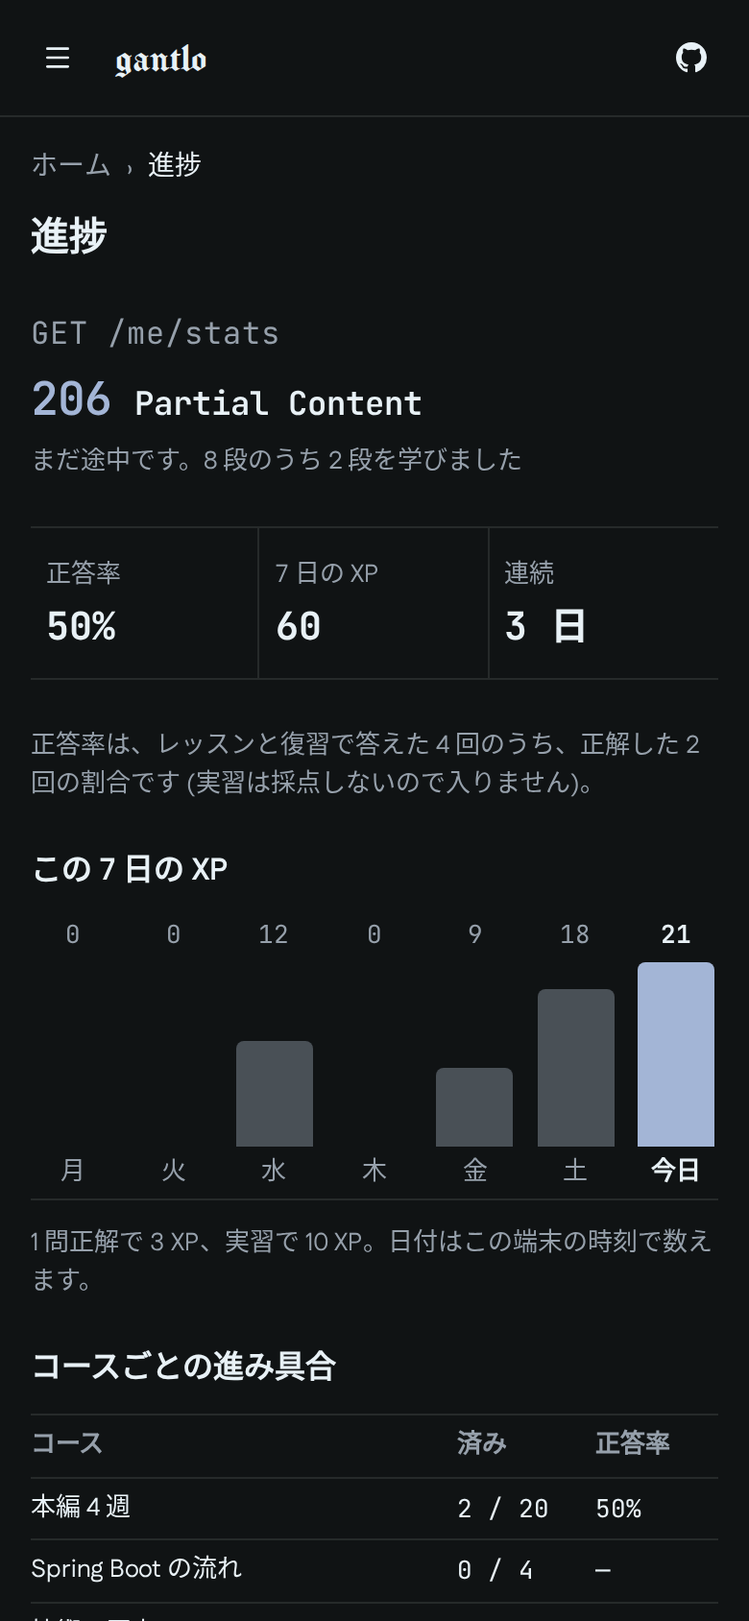
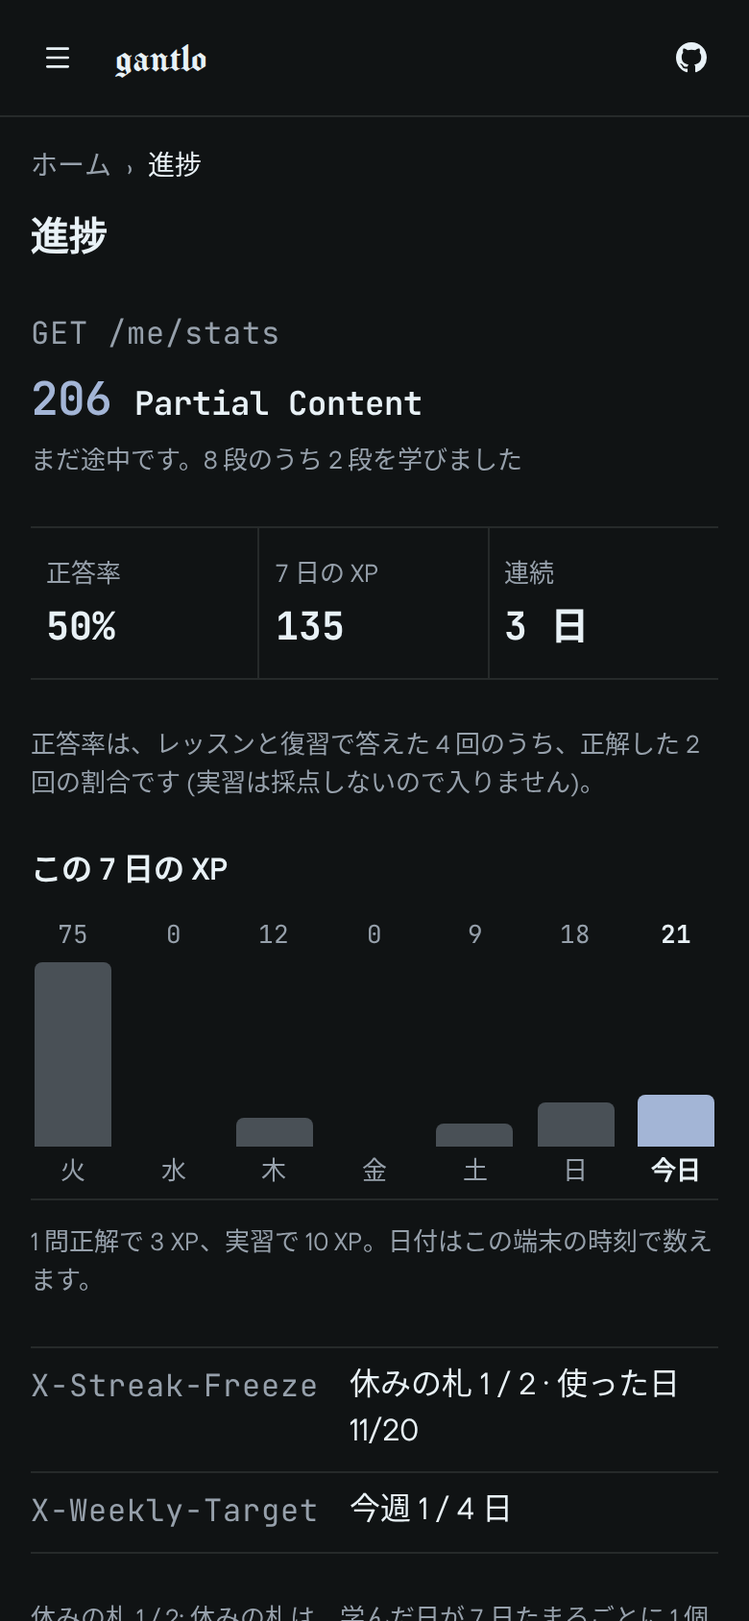
README に学び続ける仕組みと模擬試験の見直しを書き、画像を撮り直す
見せ方の表 (ホーム・模擬試験・設定・進捗)、作りの図、ファイルの表を直す。
進捗の画面は札と週の行をカレンダーの前へ移し (正答率の説明を数のすぐ下に戻す)、
README の画像の見本にカレンダーの数と札・週の目標を入れて、ホーム・進捗・学び続ける仕組みの 3 枚を撮る。
ほかの画面の画像は変えていないので入れない。

Refs #55

diff --git a/src/screens/ProgressScreen.tsx b/src/screens/ProgressScreen.tsx
@@ -88,24 +88,6 @@ export default function ProgressScreen({ progress, now = new Date(), lessons = L
           <dd>{currentStreak(progress, now)} 日</dd>
         </div>
       </dl>
-      <dl className="headers__list prog__habits" data-testid="habits">
-        <div className="headers__row" data-header="X-Streak-Freeze">
-          <dt>
-            <code>X-Streak-Freeze</code>
-          </dt>
-          <dd>{freezeText(progress, now)}</dd>
-        </div>
-        <div className="headers__row" data-header="X-Weekly-Target">
-          <dt>
-            <code>X-Weekly-Target</code>
-          </dt>
-          <dd>{weeklyTargetText(progress, now)}</dd>
-        </div>
-      </dl>
-      <Text type="supporting">
-        {freezeCountText(progress)}: 休みの札は、学んだ日が 7 日たまるごとに 1 個 (2 個まで) 増えます。休んだ日があると、次に学んだときにその日数分を使い、連続日数を保ちます (足りなければ切れます)。週の目標は{' '}
-        <Link href={pageHref('settings')}>設定</Link> で決めます。
-      </Text>
       <Text type="supporting">
         {acc.total > 0
           ? `正答率は、レッスンと復習で答えた ${acc.total} 回のうち、正解した ${acc.right} 回の割合です (実習は採点しないので入りません)。`
@@ -132,6 +114,25 @@ export default function ProgressScreen({ progress, now = new Date(), lessons = L
         </ol>
         <Text type="supporting">1 問正解で 3 XP、実習で 10 XP。日付はこの端末の時刻で数えます。</Text>
       </section>
+
+      <dl className="headers__list prog__habits" data-testid="habits">
+        <div className="headers__row" data-header="X-Streak-Freeze">
+          <dt>
+            <code>X-Streak-Freeze</code>
+          </dt>
+          <dd>{freezeText(progress, now)}</dd>
+        </div>
+        <div className="headers__row" data-header="X-Weekly-Target">
+          <dt>
+            <code>X-Weekly-Target</code>
+          </dt>
+          <dd>{weeklyTargetText(progress, now)}</dd>
+        </div>
+      </dl>
+      <Text type="supporting">
+        {freezeCountText(progress)}: 休みの札は、学んだ日が 7 日たまるごとに 1 個 (2 個まで) 増えます。休んだ日があると、次に学んだときにその日数分を使い、連続日数を保ちます (足りなければ切れます)。週の目標は{' '}
+        <Link href={pageHref('settings')}>設定</Link> で決めます。
+      </Text>
 
       <section className="prog" aria-labelledby="prog-cal-title">
         <h2 id="prog-cal-title" className="prog__title">

diff --git a/README.md b/README.md
@@ -45,14 +45,16 @@
 
 <table>
   <tr>
-    <td width="33%"><img alt="スマホのメニュー: 左から開き、下端に「このサイトについて」と「GitHub のリポジトリ」" src="docs/images/menu-phone.png"></td>
-    <td width="33%"><img alt="このサイトについて: GET /about の 200、ソースコードと Issue のボタン" src="docs/images/about-phone.png"></td>
-    <td width="33%"><img alt="コース: GET /course/main の 206、次のレッスンへのボタンと、そのコースの Network の表" src="docs/images/course-phone.png"></td>
+    <td width="25%"><img alt="スマホのメニュー: 左から開き、下端に「このサイトについて」と「GitHub のリポジトリ」" src="docs/images/menu-phone.png"></td>
+    <td width="25%"><img alt="このサイトについて: GET /about の 200、ソースコードと Issue のボタン" src="docs/images/about-phone.png"></td>
+    <td width="25%"><img alt="コース: GET /course/main の 206、次のレッスンへのボタンと、そのコースの Network の表" src="docs/images/course-phone.png"></td>
+    <td width="25%"><img alt="進捗の続き: 休みの札と週の目標の行、過去 26 週の学んだ日のマス、この先 14 日の復習" src="docs/images/habits-phone.png"></td>
   </tr>
   <tr>
     <td>メニュー。左から開き、「このサイトについて」と「GitHub のリポジトリ」は下端に留める</td>
     <td>このサイトについて。ソースコード・誤りの知らせ方・記録の置き場所・ライセンス</td>
     <td>コース。そのコースのレッスンを順に並べ、済みの印と次のレッスンへのボタンを出す</td>
+    <td>学び続ける仕組み。休みの札・週の目標・26 週の学んだ日・14 日の復習</td>
   </tr>
 </table>
 
@@ -64,7 +66,7 @@
 
 | 場面 | 見せ方 |
 |---|---|
-| ホーム | `GET /me` への応答。進み具合はステータス (`202` まだ / `206` 途中 / `200` 全部済み) で、記録はレスポンスヘッダーの形で読む。計画の予定と比べた巻き・遅れは `X-Schedule` (例: `408 2 日遅れ`)。計画を一度も保存していないうちは `204 計画なし`。次のレッスンへのボタンは何をするかを日本語で書き (まだ 1 つも済ませていなければ「最初のレッスンを始める」、ほかは「次のレッスンを始める」)、その後ろに HTTP の形 `GET /lesson/<id>` を添える (コース・計画のボタンも同じ。`src/components/LessonStartLink.tsx`) |
+| ホーム | `GET /me` への応答。進み具合はステータス (`202` まだ / `206` 途中 / `200` 全部済み) で、記録はレスポンスヘッダーの形で読む。休みの札は `X-Streak-Freeze` (`休みの札 n / 2`・次に学んだときに使う数・使った日)、週の目標は `X-Weekly-Target` (`今週 n / 目標 日`。週は月曜から。目標を決めていなければ決める場所を添える)。計画の予定と比べた巻き・遅れは `X-Schedule` (例: `408 2 日遅れ`)。計画を一度も保存していないうちは `204 計画なし`。次のレッスンへのボタンは何をするかを日本語で書き (まだ 1 つも済ませていなければ「最初のレッスンを始める」、ほかは「次のレッスンを始める」)、その後ろに HTTP の形 `GET /lesson/<id>` を添える (コース・計画のボタンも同じ。`src/components/LessonStartLink.tsx`) |
 | リクエストの旅 | 開発者ツールのウォーターフォール。URL を打ってから画面が出るまでの 8 段を、階段の帯で並べる。段に紐づくレッスンを 1 つでも終えた段は学習済みで、済んだ割合だけ帯を塗る (全部済めば `200`、途中は `206`) |
 | レッスン | 答えを送るボタンは `POST 答えを送る`。結果はレスポンスとして出す: 正解 `200 OK` (`X-XP`・`X-Source`・解説)、不正解 `400 Bad Request` (`X-Expected`・`Retry-After: 86400`・`X-Source`・解説)、メディアタイプの空欄の誤り `415 Unsupported Media Type`、並べ替えの順の誤り `409 Conflict` (「N 行が違う位置です」)。答えたあとの解説の下 (AI に聞くリンクの次) に「誤りを報告 (GitHub)」を置き、題と本文に問題の id・レッスン・レッスンのページの URL を入れた GitHub の新しい Issue を新しいタブで開く (自分の答えや記録は入れない。模擬試験の途中は解説を出さないので置かない) |
 | 並べ替え | 上下のボタンで行を動かす (ドラッグに頼らない)。確かめると、並べた順の行ごとに、その項目の正しい位置へ帯を描く。正しい順なら帯が階段になり、違う位置の行は誤りの色になる |
@@ -73,9 +75,9 @@
 | コース (`/gantlo/course/<id>/`) | `GET /course/<id>` への応答。ステータスはホームと同じ決まりで、数えるのはそのコースのレッスン (`202` まだ / `206` 途中 / `200` 全部済み。レッスンがまだ無いコースは本文の無い `204 No Content`)。コースの紹介・次のレッスンへのボタン (このコースで 1 つも済ませていなければ「最初のレッスンを始める」、ほかは「次のレッスンを始める」と `GET /lesson/<id>`)・そのコースのレッスンだけの Network の表 (済んだ行は `200 完了`、最初の未完了の行が「次」)。見出し・紹介・一覧の順は書き出す HTML と同じ |
 | 計画 (`/gantlo/plan/`) | 学ぶコースを選び、上下のボタンで順を並べ、開始日とコースごとの目安の日数 (既定は 1 レッスン 1 日) を決めると、WBS のように開始日から学ぶ順に予定の帯を引く。横の軸は日付で、帯の上に週の頭 (月曜) と月の境 (1 日) の目盛りを出し (狭い幅では字が重ならないよう間引く)、今日に縦の線を引く。表示する期間は `全体`・`2 週`・`1 か月`・`指定` (始まりと終わりの日。2 年 = 731 日まで) から選べ、期間の外にはみ出す帯は端で切る。選んだ期間は設定 (`profile.ganttView`) にすぐ残る。済んだ量を今日の予定と比べ、`GET /plan/schedule` の応答で巻き (`200 OK`「N 日巻き」、情報の色の青)・予定どおり (`200 OK`、成功の色の緑)・遅れ (`408 Request Timeout`「N 日遅れ」、誤りの色) を出し、済みの塗りも同じ色にする。色だけに頼らず、凡例とステータスに字でも書く。目安の日数に範囲外の値を打つと「1〜365 の整数」と知らせ、既定と同じ値は直した値として残さない。予定は目安で、期限・取り戻し方・通知は持たない。`PUT この順で学ぶ` で保存すると `200 OK`。帯に済んだぶんを塗り、「今ここ」を縦の印で示す。計画が無いときは全コースを既定の順 (本編 → 追加のコース) で見せる |
 | 復習 (`/gantlo/review/`) | `GET /me/reviews?due=today` への応答。今日の復習があれば `200 OK` と問題の一覧、無ければ `204 No Content` と次の予定。解き終えると `200 OK` (レッスンの記録は作らないので `201` にしない) |
-| 模擬試験 (`/gantlo/exam/`) | `GET /exam` への応答 (`200 OK`)。本編 4 週の採点する問題 (実習を除く) から各週 10 問ずつ 40 問を開くたびに選び直し、60 分で解く。解いている間は正誤 (応答の枠) と AI に聞くリンクを出さず、`POST 答えを送って次へ` で次の問題へ進む。上の帯に残り時間 (残り 5 分を切ると誤りの色)。終えると `POST /me/exams` の `201 Created`、60 分を過ぎると答えていない問題を不正解として `408 Request Timeout` (`X-Unanswered` に数)。合否は `X-Result` (75% ちょうどは合格) と見出しに出し (75% はこのサイトの目安で、一次情報となる公式の基準は無いので、画面と書き出す HTML では「合格の目安」と書き、公式の基準ではないと断る。文の正本は `lib/exam.ts` の `PASS_MARK_NOTE`)、週ごとの正答率・いちばん低い週と、その週で間違えた問題のあるレッスンへのリンク・問題ごとの正誤 (誤りには正しい答えと解説) を出す。間違えた・答えなかった問題は翌日の復習に入り、正解 1 問 3 XP。回の記録 (`exams`、新しい順に 20 回まで) を、これまでの回として出す。解いている途中の回 (出題・答え・期限) はブラウザに残し、読み直したり閉じて開き直したりすると `GET /me/exams/current` の `206 Partial Content` で「続きから解く / やめて最初から」を出す (期限は閉じている間も進み、過ぎていれば開いたとき・案内を出している間に期限が来たとき・案内から新しく始めるときに時間切れの `408` として採点する)。採点した回は回の id を記録に残し、2 つのタブで同じ回を解いても 1 回だけ記録する。やめるボタンか「やめて最初から」でやめた回は記録しない |
-| 設定 (`/gantlo/settings/`) | 目標を変えると `PATCH /me/profile` の `200`、書き出しは `GET`、読み込みは `PUT /me` の `200`。1 MB を超えるファイルは `413 Content Too Large`、壊れたファイルは `422 Unprocessable Content` で読まず、理由を出す。記録を消すと `DELETE /me` の `204` |
-| 進捗 (`/gantlo/progress/`) | `GET /me/stats` への応答。ステータスはホームと同じ旅の段の進み具合 (`202` / `206` / `200`)。正答率 (レッスンと復習で答えた回数のうち正解の割合)・この 7 日の XP (日ごとの棒)・連続日数、コースごとの済んだレッスンの数と正答率、旅の 8 段の学習状況 (ウォーターフォール) を出す |
+| 模擬試験 (`/gantlo/exam/`) | `GET /exam` への応答 (`200 OK`)。本編 4 週の採点する問題 (実習を除く) から各週 10 問ずつ 40 問を開くたびに選び直し、60 分で解く。解いている間は正誤 (応答の枠) と AI に聞くリンクを出さず、`POST 答えを送って次へ` で次の問題へ進む。問題の下に「前の問題」「次の問題 (答えずに)」「あとで見直す」(押した状態を `aria-pressed` で伝える印)「一覧と採点へ」と、問題番号の一覧 (番号ごとに未回答・回答済み・印を字でも書く) を置き、好きな問題へ移れる。答えた問題へ戻ると「送り直すと前の答えを置き換えます」と出す (残しているのは正誤とコードだけなので、入れた答えは出せない)。最後の問題のあとは、すぐに採点せず `POST /me/exams (Expect: 100-continue)` の `100 Continue` で採点の前の確かめ (`X-Unanswered`・`X-Marked`) を出し、`POST 採点する` で採点する。上の帯に残り時間 (残り 5 分を切ると誤りの色)。終えると `POST /me/exams` の `201 Created`、60 分を過ぎると答えていない問題を不正解として `408 Request Timeout` (`X-Unanswered` に数)。合否は `X-Result` (75% ちょうどは合格) と見出しに出し (75% はこのサイトの目安で、一次情報となる公式の基準は無いので、画面と書き出す HTML では「合格の目安」と書き、公式の基準ではないと断る。文の正本は `lib/exam.ts` の `PASS_MARK_NOTE`)、週ごとの正答率・いちばん低い週と、その週で間違えた問題のあるレッスンへのリンク・問題ごとの正誤 (誤りには正しい答えと解説) を出す。間違えた・答えなかった問題は翌日の復習に入り、正解 1 問 3 XP。回の記録 (`exams`、新しい順に 20 回まで) を、これまでの回として出す。解いている途中の回 (出題・位置ごとの答え・期限・今の位置・見直しの印) はブラウザに残し、読み直したり閉じて開き直したりすると `GET /me/exams/current` の `206 Partial Content` で「続きから解く / やめて最初から」を出す (期限は閉じている間も進み、過ぎていれば開いたとき・案内を出している間に期限が来たとき・案内から新しく始めるときに時間切れの `408` として採点する)。採点した回は回の id を記録に残し、2 つのタブで同じ回を解いても 1 回だけ記録する。やめるボタンか「やめて最初から」でやめた回は記録しない |
+| 設定 (`/gantlo/settings/`) | 目標を変えると `PATCH /me/profile` の `200`。週の目標 (週に学ぶ日 1〜7、既定は無し) も同じ `PATCH /me/profile` で、外すボタンで外せる。学ぶ予定は時刻と曜日を選んで `GET /me/calendar.ics` の `200` で .ics を保存する (曜日が空なら `422`)。書き出しは `GET`、読み込みは `PUT /me` の `200`。1 MB を超えるファイルは `413 Content Too Large`、壊れたファイルは `422 Unprocessable Content` で読まず、理由を出す。記録を消すと `DELETE /me` の `204` |
+| 進捗 (`/gantlo/progress/`) | `GET /me/stats` への応答。ステータスはホームと同じ旅の段の進み具合 (`202` / `206` / `200`)。正答率 (レッスンと復習で答えた回数のうち正解の割合)・この 7 日の XP (日ごとの棒)・連続日数、ホームと同じ `X-Streak-Freeze` と `X-Weekly-Target` の行、過去 26 週の学んだ日のマス (列が週、日ごとに答えた問題の数で 5 段に塗る。マスごとに日付と数を見えない文字と title で持つ)、この先 14 日の復習の件数 (今日には過ぎた予定も入れる)、問題ごとの到達 (まだ・間違えた・1 回正解・2 回続けて の数と割合をコースごと)、学習のまとめのカード (`GET /me/summary.png` で 1080×1350 の PNG を保存。画像の共有に対応した端末では共有も)、コースごとの済んだレッスンの数と正答率、旅の 8 段の学習状況 (ウォーターフォール) を出す |
 | 用語集 (`/gantlo/glossary/`) | `GET /glossary?q=<探す語>` への応答。当たれば `200 OK` と語の数、無ければ `204 No Content`。探す語は URL の形 (パーセントエンコーディング) で見せる。11 の規格を学ぶ順に、問題に出る用語を読みの順に並べ、どの語にも短い説明・一次情報の出典 (RFC は節まで)・出てくるレッスンへのリンクを付ける。探しているときは当たりのよい順の 1 つの一覧 |
 | このサイトについて (`/gantlo/about/`) | `GET /about` への応答 (`200 OK`)。サイトの説明・ソースコード (GitHub)・Issue を書く・記録の置き場所・AI に聞く・問題の出典・ライセンス。文の正本は `src/lib/about.ts` |
 | まだ無い画面 | `501 Not Implemented` |
@@ -101,6 +103,14 @@ flowchart LR
   app --> stats["screens/ProgressScreen.tsx<br/>進捗 (GET /me/stats)"]
   app --> gloss["screens/Glossary.tsx<br/>用語集 (GET /glossary)"]
   statslib["lib/stats.ts<br/>正答率・7 日の XP・コースごと"] --> stats
+  habits["lib/habits.ts<br/>休みの札・週の目標の見せ方"] --> home
+  habits --> stats
+  callib["lib/calendar.ts<br/>26 週のマス・14 日の復習"] --> stats
+  mastery["lib/mastery.ts<br/>問題ごとの到達"] --> stats
+  mastery --> cardlib["lib/summaryCard.ts<br/>まとめのカードの数と描き方"]
+  cardlib --> card["components/SummaryCard.tsx<br/>canvas で PNG・保存・共有 (後から読む)"]
+  card --> stats
+  ics["lib/ics.ts<br/>.ics (RFC 5545)・VTIMEZONE"] --> settings
   gdata["content/glossary.json<br/>語・説明・出典・レッスン"] --> glib["lib/glossary.ts<br/>NFKC でそろえて探す・検査"]
   glib --> gloss
   review -->|復習として解く| lesson
@@ -166,6 +176,7 @@ flowchart LR
   index --> journey
   index --> planlib
   progress --> statslib["lib/stats.ts<br/>正答率・7 日の XP"]
+  progress -->|休みの札・日ごとの答えた数・続けた正解の数| habitslib["lib/habits.ts・calendar.ts・mastery.ts"]
   index --> statslib
 ```
 
@@ -211,7 +222,7 @@ flowchart LR
 | `src/App.tsx` | 経路から画面を選ぶ。画面はホームも含めて `React.lazy` で開いたときに読む (上の帯と「読み込んでいます。」を先に描き、画面の描画は Suspense の読み直しとして React が手を離しながら描くので、1 つの長い仕事にならない。書き出した HTML がその画面の JS を modulepreload する) (読み込み中は「読み込んでいます。」だけを出し、見出しは画面と一緒に出す)。画面の JS を読めないとき (新しい版を出したあとの開いたままのタブなど) は、`src/lib/chunkReload.ts` が `vite:preloadError` で 1 回だけ読み直し (10 秒の中の 2 度目は読み直さない。sessionStorage に時刻を残す)、それでも読めなければ `components/ChunkErrorBoundary.tsx` が白紙にせず「読み込めませんでした」と読み直すボタンを出す (`scripts/e2e-course.mjs` の 7)。トップが最初に読む JS (script と modulepreload を gzip -9 した合計) は 300 KB 以下 (`tests/meta.test.ts` が build のあとに確かめる) |
 | `scripts/check-content.mjs` | 問題データの検査 (`npm run check:content`)。必須の欄・正解と選択肢や項目の食い違い・id の重なり・旅の段・https の出典を見る。CI でも走る |
 | `src/lib/grade.ts` | 採点。前後の空白は無視し、大文字と小文字は区別する。HTTP のヘッダー名とメディアタイプだけは区別しない |
-| `src/lib/progress.ts` | 進捗。localStorage の `gantlo.v1` に JSON で置き、サーバーには送らない。壊れた中身は初期値で読み直す。復習の予定 (`recordAnswer`): 間違えると翌日、予定日以降の正解で 3 日後・7 日後、7 日後も正解で卒業、予定日より前の正解は据え置き。日付は端末の時刻の日付 (`dayKey`) で数え、時差で 1 日ずれない。読み込み (`parseImport`) は 1 MB まで、`v` が 1 で `streak`・`xp`・`lessons`・`answers` がオブジェクトのものだけを読み、読めない理由を返す。目標と計画は、読み込んだ側に無いときだけ今の端末から引き継ぐ。計画の開始日と目安の日数も、読み直し・書き出し・読み込み・記録を消すときに写して残す (壊れた値は読むときに落として既定で補う)。模擬試験の回の記録 (`exams`: 終えた時刻・正答数・問題の数・時間切れか) は、形の合う回だけを 20 回まで読む (正答数が問題の数を超える回は落とす)。記録を消すと回の記録も消える |
+| `src/lib/progress.ts` | 進捗。学んだ日は、レッスン・復習・模擬試験を終えて連続日数を進めた日 (`xp.byDay` に日付がある日。`studiedDays`) の 1 つに決め、休みの札・週の目標・カレンダーで同じものを使う。休みの札 (`freeze`: 数・次の札までの日・使った日) は学んだ日が 7 日たまるごとに 1 個 (2 個まで。2 個のときは足さずに数え直す)。最後に学んだ日との間に学ばなかった日があれば、次に学んだとき (`addActivity`) にその日数分を使って連続を保ち、足りなければ札は使わずに 1 に戻す。札で埋められる空きのうちは `currentStreak` も切らない (`pendingFreezes`)。欄の無い古い記録は学んだ日の数から数える (`freezeState`)。日ごとに答えた問題の数 (`answered`) は `recordAnswer` が数え、模擬試験で答えなかった問題は数えない。問題ごとの続けて正解した数 (`inRow`、9 まで) も `recordAnswer` が残し、欄の無い古い記録は回数と復習の段階から推す (`inRowOf`: 間違えていなければ正解の回数・正解していなければ 0・卒業していれば 2・復習の途中は段階。段階 0 は直近が誤りとみなす)。週の目標 (`profile.weeklyGoalDays`) は 1〜7 の整数だけ残す。どの欄も optional で `v` は 1 のまま。localStorage の `gantlo.v1` に JSON で置き、サーバーには送らない。壊れた中身は初期値で読み直す。復習の予定 (`recordAnswer`): 間違えると翌日、予定日以降の正解で 3 日後・7 日後、7 日後も正解で卒業、予定日より前の正解は据え置き。日付は端末の時刻の日付 (`dayKey`) で数え、時差で 1 日ずれない。読み込み (`parseImport`) は 1 MB まで、`v` が 1 で `streak`・`xp`・`lessons`・`answers` がオブジェクトのものだけを読み、読めない理由を返す。目標と計画は、読み込んだ側に無いときだけ今の端末から引き継ぐ。計画の開始日と目安の日数も、読み直し・書き出し・読み込み・記録を消すときに写して残す (壊れた値は読むときに落として既定で補う)。模擬試験の回の記録 (`exams`: 終えた時刻・正答数・問題の数・時間切れか) は、形の合う回だけを 20 回まで読む (正答数が問題の数を超える回は落とす)。記録を消すと回の記録も消える |
 | `src/lib/useProgress.ts` | 進捗を読み、変えるたびに保存する React のフック |
 | `src/screens/LessonScreen.tsx` | レッスンを 1 問ずつ解き、最後に `201 Created` で結果を出す。答えるたびに問題ごとの正誤を、終えたら完了・最高の正答率・XP を進捗に残す。4 択の選択肢と並べ替えの項目は、開くたび・やり直すたびに混ぜる。画面の h1 は上の帯のレッスン名で (書き出す HTML の h1 と同じ)、問題文は h2 (`QuestionHeadingLevel`。模擬試験の途中の画面は問題文が h1 のまま) |
 | `src/components/FillQuestionView.tsx`・`ChoiceQuestionView.tsx`・`OrderQuestionView.tsx`・`LabQuestionView.tsx` | 種類ごとの画面 (コマンドと HTTP・JSON の穴埋め / 4 択 / 並べ替え / 実習)。並べ替えは上下のボタンで動かし、動かしたあとも手元 (focus) を動かした行のボタンに残す (端で押せなくなったら押せる方へ)。実習は採点せず、全部の手順に印を付けると終えられる |
@@ -221,12 +232,12 @@ flowchart LR
 | `src/lib/shuffle.ts` | 4 択の選択肢を、開くたび・やり直すたびに混ぜる (`fixedOrder` の問題はそのまま) |
 | `src/lib/lessonRun.ts` | 正答数 (実習を除く採点した問題で数える。並べ替えも入る)・XP (正解 1 問 3、実習 10)・結果の JSON・完了画面の一覧のコード (答えの画面に出したコードと同じ。並べ替えの誤りは 409、メディアタイプの誤りは 415) |
 | `scripts/e2e.mjs` | ブラウザでの通しの検査 (`npm run e2e`)。390 幅と 1280 幅で、問題データから選んだレッスン (並べ替え・4 択・穴埋めを持つものと、メディアタイプの空欄・実習を持つもの) を解き、応答・完了・進捗・404・横のはみ出し・答える前の AI のリンク (全種類)・本文へ飛ぶリンク・390 幅の押せる範囲 (44px)・並べ替えをキーボード (Tab と Enter) だけで正解にできること・409 で違う位置の行が誤りの色になることを見る |
-| `src/lib/exam.ts` | 模擬試験の計算。出題の元 (`examBank`) は本編のレッスン (id の `main-w<週>-` から週を読む) の実習を除く問題。`pickExam` は週ごとに 10 問を重ならずに選び、全体の並びと 4 択の選択肢・並べ替えの項目を混ぜる。乱数は `examRandom` が決め、URL に `?seed=<整数>` があれば種から決まる乱数 (`seededRandom`) で出題を固定する (e2e が使う。無ければ `Math.random`)。`gradeExam` は答えていない問題を不正解に数え、正答率・合否 (`PASS_MARK` 0.75 以上)・週ごとの正答率・いちばん低い週 (同じなら先の週、全部満点なら無し) を返す。途中の回は `toSavedExam` で出題 (問題の id と、混ぜた 4 択の選択肢・並べ替えの項目の並び)・答え・期限にし、`fromSavedExam` が出題の元と突き合わせて読み直す (回の id が無い・形が違う・問題データから消えた・同じ問題が 2 回・並びが合わない・答えが多すぎる中身は読まずに消して最初から)。もう記録した回 (記録の `exams` の `runId`) の保存は `loadExamRun` が捨てる。置き場は進捗と別のキー `gantlo.exam.v1` で、進捗の様式 (`gantlo.v1`)・書き出し・読み込みには入れない。`recordExam` は全部の問題を `recordAnswer` に通し (間違えた・答えなかった問題は翌日の復習)、正解 1 問 3 XP を足し、回の記録を先頭に足す (`MAX_EXAM_RECORDS` 20 回まで。読み込みでも同じ数で切る) |
+| `src/lib/exam.ts` | 模擬試験の計算。出題の元 (`examBank`) は本編のレッスン (id の `main-w<週>-` から週を読む) の実習を除く問題。`pickExam` は週ごとに 10 問を重ならずに選び、全体の並びと 4 択の選択肢・並べ替えの項目を混ぜる。乱数は `examRandom` が決め、URL に `?seed=<整数>` があれば種から決まる乱数 (`seededRandom`) で出題を固定する (e2e が使う。無ければ `Math.random`)。`gradeExam` は答えていない問題を不正解に数え、正答率・合否 (`PASS_MARK` 0.75 以上)・週ごとの正答率・いちばん低い週 (同じなら先の週、全部満点なら無し) を返す。途中の回は `toSavedExam` で出題 (問題の id と、混ぜた 4 択の選択肢・並べ替えの項目の並び)・答え・期限にし、`fromSavedExam` が出題の元と突き合わせて読み直す (回の id が無い・形が違う・問題データから消えた・同じ問題が 2 回・並びが合わない・答えが多すぎる中身は読まずに消して最初から)。もう記録した回 (記録の `exams` の `runId`) の保存は `loadExamRun` が捨てる。途中の回の答えは位置ごと (飛ばした位置は `null`) で、今の位置 (`index`) と見直しの印 (`marks`) も残す。`index` と `marks` の無い古い保存 (答えを前から詰めたもの) は、答えた数を今の位置として読む。答えは問題の数まで読む (全部に答えて採点の前の確かめにいる回もある)。置き場は進捗と別のキー `gantlo.exam.v1` で、進捗の様式 (`gantlo.v1`)・書き出し・読み込みには入れない。`recordExam` は全部の問題を `recordAnswer` に通し (間違えた・答えなかった問題は翌日の復習)、正解 1 問 3 XP を足し、回の記録を先頭に足す (`MAX_EXAM_RECORDS` 20 回まで。読み込みでも同じ数で切る) |
 | `src/lib/report.ts`・`src/components/ReportIssue.tsx` | 問題ごとの「誤りを報告」。問題の id から目録 (`content/catalog.ts`) でレッスンを引き (問題の本文は読まない)、このサイトについてと同じ `NEW_ISSUE_URL` に `?title=` (「問題の誤り: <id> (<レッスン名>)」) と `?body=` (問題の id・コースとレッスン・ページの URL・書いてほしいこと) を `encodeURIComponent` で付ける。中身は問題の id とデータだけから決め、自分の答え・記録・個人の情報は入れない (`tests/report.test.ts`)。ページの URL の頭 (`ORIGIN`) の正本は `src/lib/site.ts` |
-| `src/screens/Exam.tsx` | 模擬試験の画面。始める前・解いている途中・結果の 3 つ。問題は種類ごとの画面 (`isExam`) で出し、答えを送ると正誤を見せずに次へ進む。残り時間は 1 秒ごとに数え直し、0 になったら 1 回だけ採点する (最後の答えと時計が重なっても 2 回記録しない)。並べ替えの送るボタンは並べ方によらず押せるので、出してから 0.4 秒の間の答えは捨てる (2 度押しの 2 回目で次の問題を送らない)。解いている途中の回は答えるたびに `gantlo.exam.v1` に残し (`lib/examSave.ts`)、開いたときに残っていれば期限の前なら続けるかを聞き (`ResumePrompt`。期限が来たら時間切れとして採点する)、過ぎていれば時間切れとして採点する (`recordExpiredRun`)。案内から新しく始めるときも、期限を過ぎた回を先に採点する。記録は回の id (`runId`) で 1 回だけ (`recordExam` がもう記録した id を足さない)。走っている画面は、残っている回が自分の回のときだけ残し直し (別のタブが採点して消した回を戻さない)、終えたときに別のタブがその回を記録していれば記録しない。終えた・時間が切れた・やめたときは、残っているのが自分の回なら消す |
+| `src/screens/Exam.tsx` | 模擬試験の画面。始める前・解いている途中・採点の前の確かめ・結果の 4 つ。前の問題・答えずに次へ・あとで見直す (Astryx の `ToggleButton`)・問題番号の一覧 (`ExamSlots`) で移り、最後の問題のあとは確かめの画面 (`100 Continue`) に移る (確かめにいることは保存しない。読み直すと最後に見ていた問題から)。問題は種類ごとの画面 (`isExam`) で出し、答えを送ると正誤を見せずに次へ進む。残り時間は 1 秒ごとに数え直し、0 になったら 1 回だけ採点する (最後の答えと時計が重なっても 2 回記録しない)。並べ替えの送るボタンは並べ方によらず押せるので、出してから 0.4 秒の間の答えは捨てる (2 度押しの 2 回目で次の問題を送らない)。解いている途中の回は答えるたびに `gantlo.exam.v1` に残し (`lib/examSave.ts`)、開いたときに残っていれば期限の前なら続けるかを聞き (`ResumePrompt`。期限が来たら時間切れとして採点する)、過ぎていれば時間切れとして採点する (`recordExpiredRun`)。案内から新しく始めるときも、期限を過ぎた回を先に採点する。記録は回の id (`runId`) で 1 回だけ (`recordExam` がもう記録した id を足さない)。走っている画面は、残っている回が自分の回のときだけ残し直し (別のタブが採点して消した回を戻さない)、終えたときに別のタブがその回を記録していれば記録しない。終えた・時間が切れた・やめたときは、残っているのが自分の回なら消す |
 | `scripts/e2e-exam.mjs` | `scripts/e2e.mjs` から呼ぶ、模擬試験の通しの検査 (B-027)。模擬試験は `?seed=` 付きで開き (種は `E2E_EXAM_SEED`、既定 1。ログに出す)、出題で結果が変わらないようにする。390 幅と 1280 幅で、40 問が各週 10 問ずつで実習と重なりが無いこと、解いている間は正誤の枠と AI のリンクが出ないこと、30 問正解で `201`・合格・週ごとの正答率・読み直すレッスン (リンクで開く)・記録と復習と XP、不正解の行に正しい答えと解説が出ること、並べ替えを出した直後の送るを受け付けないこと (2 度押しの止め)、途中でやめると記録しないこと、途中で読み直すと `206` の続きの画面が出て、続きから解くと読み直す前に出ていた問題から同じ回を解けること・やめて最初からは記録せずに 1 問目から始めること・やめる・終えると途中の回が消えること、続きの案内を出したまま期限が来る・期限を過ぎてから案内で新しく始めると時間切れとして 1 回だけ記録すること、2 つのタブで同じ回を解いても記録は 1 回で採点した回の保存が戻らないこと (PC の幅)、時計を 60 分進めると `408` と `X-Unanswered`、390 幅で 44px 以上であることを見る |
 | `src/screens/Review.tsx` | 復習の画面。始めたときの今日の問題を、レッスンの画面 (`LessonScreen` の `review`) で 1 問ずつ解く。復習ではレッスンの完了を付けず、XP と連続日数だけを進め、閉じると復習の画面へ戻る。答えは `POST /me/reviews/answers/N`、終えたときの本文は `reviewed`・`correct`・`xp` で、完了のステータス行 `POST /me/reviews` とそろえる (`lessonRun.ts` の `answerRequest`・`reviewResultBody`) |
-| `src/screens/Settings.tsx`・`src/lib/download.ts` | 設定の画面。1 日の目標 (10・20・30・50 XP)、記録の書き出し (画面の中で Blob を作って a[download] を押す)、読み込み (file input。確かめてから置き換える)、記録を消す (画面の中の確認の dialog を挟む。`confirm()` は使わない。目標と計画は残す。模擬試験の途中の回 `gantlo.exam.v1` も消す)。1 MB を超えるファイルは中身を読まずに断ることを `tests/settings.test.ts` (jsdom) で確かめる |
+| `src/screens/Settings.tsx`・`src/lib/download.ts` | 設定の画面。1 日の目標 (10・20・30・50 XP)、週の目標 (1〜7 日。既定は無し)、学ぶ予定の .ics の書き出し (時刻の入力欄と曜日のチェック。選んだ値は記録に残さない)、記録の書き出し (画面の中で Blob を作って a[download] を押す)、読み込み (file input。確かめてから置き換える)、記録を消す (画面の中の確認の dialog を挟む。`confirm()` は使わない。目標と計画は残す。模擬試験の途中の回 `gantlo.exam.v1` も消す)。1 MB を超えるファイルは中身を読まずに断ることを `tests/settings.test.ts` (jsdom) で確かめる |
 | `scripts/e2e-lessons.mjs` | e2e の検査が共に使う、問題データの読み方・解くレッスンの選び方・種類ごとの答え方・期待の正答数と XP の数え方。検査は本物の問題データの中身 (何問目が何の種類か・XP の合計) を決め打ちせず、ここでデータから探して数える。単体のテストは `tests/fixtures/sample-lesson.ts` の見本のレッスンを使う |
 | `scripts/e2e-review-settings.mjs` | `scripts/e2e.mjs` から呼ぶ、復習と設定の画面の通しの検査。時計を止め、UTC と手元の日付が違う時差 (390 幅は東京、1280 幅はロサンゼルス) で、今日の復習を解くと 0 問になること・目標 10 XP がホームに出ること・書き出した JSON を読み込むと記録が戻ること・壊れたファイル (422) と 1 MB を超えるファイル (413) を読まないこと・記録を消す前に確かめること・記録を消すと模擬試験の途中の回 (`gantlo.exam.v1`) も消えること・390 幅でボタンが 44px 以上であることを見る |
 | `scripts/e2e-home-plan.mjs` | `scripts/e2e.mjs` から呼ぶ、ホームと計画の画面の通しの検査。空の状態から次のレッスンを終えて戻ると完了・段の学習済み・XP の増加が出ること (390・1280 幅)、390 幅でキーボードだけで並べ替えて保存できボタンが 44px 以上であること、1280 幅で計画の帯・済みの塗り・今ここ・次のレッスンへのリンクが出てレッスンが開くことを見る |
@@ -235,6 +246,12 @@ flowchart LR
 | `scripts/e2e-narrow.mjs` | `scripts/e2e.mjs` から呼ぶ、390 幅の崩れの検査 (B-025)。390 幅と 1280 幅で、問題データでいちばん長い出典を持つ問題に答え、出典 (`X-Source`) の外部リンクの箱と印の右端が応答の枠の内にあること、用語集の「出てくるレッスン」と出典の区切り (・) の縦の中心が前か後ろのリンクの箱の内にある (1 行を占めない) ことを見る |
 | `scripts/e2e-contrast.mjs` | `scripts/e2e.mjs` から呼ぶ、テーマと文字のコントラストの検査。390 幅と 1280 幅で、ホーム・計画・復習 (予定なしと今日の分あり)・レッスンの問題と応答 (400 / 200 / 409)・完了 (201)・404・進捗・コース・用語集 (全角で探したあとも)・設定と記録を消す確かめの dialog・このサイトについてを開き、テーマが Gothic (地の token が `#101314`) であることと、文字を持つ見える要素 (本文・補助の文字・ボタン・リンク・ステータスのコード・入力欄) の文字の色と実際の地の色 (根から要素まで地を塗り重ね、opacity の祖先は字と地の両方を奥の地に重ねる) のコントラスト比が WCAG の相対輝度で 4.5:1 以上であることを見る。空の入力欄は placeholder を、390 幅ではスマホのメニューを開いた状態も測る。大きな文字の 3:1 の例外は使わず、押せないボタンは数えない。測り方は合成のページ (opacity 0.5 の群で約 3.98:1) で確かめる |
 | `src/styles.css` | Astryx の部品で作れない所 (ステータス行・帯・ヘッダーの行) と、狭い画面 (768px 未満) の共通の決まりだけ。狭い画面ではボタン・入力欄の高さのトークン (`--size-element-*`) と 4 択・手順の行・入力欄の消すボタン・文の中に並ぶリンク (箱に `tap-links` を付ける) を 44px にそろえ、ページごとには大きさを書かない。色はテーマのトークンだけを使う。括弧の崩れはブラウザも build も黙って読むので、`tests/styles.test.ts` が postcss で読んで見つける |
+| `src/lib/habits.ts` | 休みの札 (`freezeText`) と週の目標 (`weeklyTargetText`。週の頭は月曜 `weekStart`) の見せ方。ホームと進捗が使う |
+| `src/lib/calendar.ts` | 進捗のカレンダー (`studyCalendar`: 今週を含む 26 週 × 7 日。濃さの段は 0・1〜5・6〜15・16〜30・31 問以上で、数の記録が無い古い学んだ日は 1 段目) と、この先 14 日の復習 (`reviewForecast`。問題データにある問題だけ) |
+| `src/lib/mastery.ts` | 問題ごとの到達 (`masteryOf`: まだ・直近で誤り・1 回正解・2 回続けて正解) と、コースごとの数 (`courseMastery`。実習は数えない) |
+| `src/lib/summaryCard.ts`・`src/components/SummaryCard.tsx` | 学習のまとめのカード。数 (`summaryOf`: 学んだ期間・学んだ日・解いた問題の数・連続日数・コースごとの到達) を、テーマのトークンと書体 (描く前に `document.fonts.load` で読む) で 1080×1350 の canvas に描き (`drawSummary`)、PNG を保存する。`navigator.canShare({ files })` が真の端末だけ「共有する」を出し、files だけを渡す (文と URL は付けない)。名前・答えの中身など個人を特定する情報は入れない。部品は進捗の画面から `React.lazy` で読む |
+| `src/lib/ics.ts` | 学ぶ予定の .ics (RFC 5545)。時刻と曜日から `VEVENT` (`UID`・`DTSTAMP`・`DTSTART;TZID=<端末の時刻帯>`・`DURATION:PT15M`・`RRULE` は毎日なら `FREQ=DAILY`、曜日を選べば `FREQ=WEEKLY;BYDAY=`・`VALARM`) を作る。最初の予定は BYDAY に合う最初の日。`TZID` に対応する `VTIMEZONE` は、Intl で読んだその時刻帯のずれの切り替わり (今の 1 年前から 10 年分を日ごとに見て、分の単位まで二分で詰める) から `STANDARD`/`DAYLIGHT` と `RDATE` で作る。行は CRLF で、75 octet ごとに折り返し (UTF-8 の 1 文字の途中では切らない)、TEXT の `\ ; ,` と改行を escape する。中身はサイトの URL と短い文だけ (`tests/ics.test.ts`) |
+| `scripts/e2e-habits.mjs` | `scripts/e2e.mjs` から呼ぶ、学び続ける仕組みの検査。390 幅 (東京) と 1280 幅 (ロサンゼルス) で時計を止め、休みの札 (1 日休んでも連続が切れず、復習を終えると札を使って 1 増え、使った日が出る)、週の目標 (選ぶと 200 と記録、ホームの `今週 n / 3 日`)、.ics (CRLF・75 octet・端末の時刻帯の TZID・BYDAY・記録を含まない・曜日が空なら 422)、進捗 (182 のマス・title と見えない文字・14 日の復習・到達)、まとめのカード (1080×1350 の PNG。共有に対応した端末では files だけを渡す)、390 幅の 44px を見る |
 | `src/screens/ProgressScreen.tsx`・`src/lib/stats.ts` | 進捗の画面と、その計算。正答率は問題ごとの記録 (`answers`) の正解と不正解の回数を、問題データにある問題だけ足して出す (採点しない実習は入らない)。7 日の XP は今日を含む 7 日を端末の時刻の日付で数える。コースごとに済んだレッスンの数・レッスンの数・正答率を出し、レッスンの無いコースは「準備中」 |
 | `src/content/glossary.json`・`src/content/glossary.ts` | 用語集の語 (`id`・`term`・`aliases`・11 の規格なら `standard`・`description`・`sources`・`lessons`)。様式と、問題を足したとき (問題の PR が入ったあと) に「出てくるレッスン」へのリンクを足す手順は [docs/content-format.md](docs/content-format.md) |
 | `src/lib/glossary.ts` | 用語集の検索と検査。探す語と語の名前・別名・説明を NFKC でそろえ (全角英数・半角カナ)、大文字小文字・ひらがなとカタカナ・中黒の違いを無くして比べ、名前に当たる語を先に出す。ハイフン・「/」・「.」は英数字に挟まれたときだけ消し (`HTTP/2` と `http2`、`Content-Type` と `contenttype`)、語の頭のハイフン (`-I`) は残す。名前は空白を抜いた形でも比べる (`TLS 1.3` を `TLS1.3` で、`OAuth 2.0` を `OAuth2` で引ける)。出典の URL に空白・`"`・`<`・`>` が無いことも見る。`validateGlossary` は id の形と重なり、名前と別名の重なり (そろえた形で比べる)、https の出典、RFC が節まで指すこと、レッスンが実在すること、11 の規格がそろうことを見る (`tests/glossary.test.ts`) |
